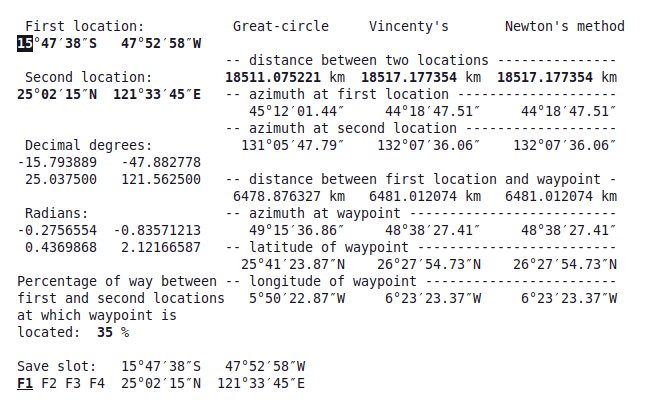
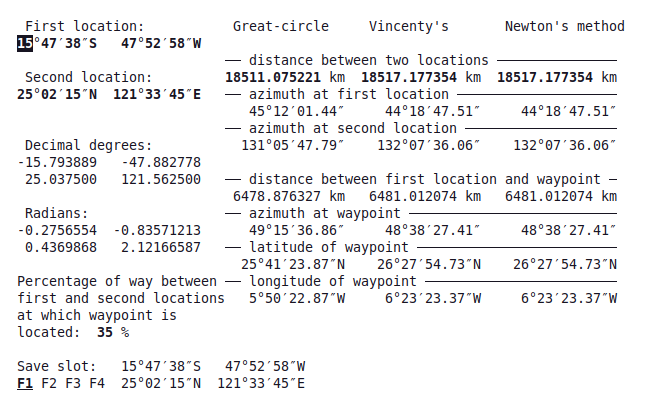
Changed line characters

diff --git a/main.c b/main.c
@@ -121,14 +121,14 @@ void print_text(void) {
 	mvwprintw(text, 1, 46, "Vincenty's");
 	mvwprintw(text, 1, 63, "Newton's method");
 
-	mvwprintw(text, 3, 28, "-- distance between two locations ---------------");
-	mvwprintw(text, 5, 28, "-- azimuth at first location --------------------");
-	mvwprintw(text, 7, 28, "-- azimuth at second location -------------------");
+	mvwprintw(text, 3, 28, "── distance between two locations ───────────────");
+	mvwprintw(text, 5, 28, "── azimuth at first location ────────────────────");
+	mvwprintw(text, 7, 28, "── azimuth at second location ───────────────────");
 
-	mvwprintw(text, 10, 28, "-- distance between first location and waypoint -");
-	mvwprintw(text, 12, 28, "-- azimuth at waypoint --------------------------");
-	mvwprintw(text, 14, 28, "-- latitude of waypoint -------------------------");
-	mvwprintw(text, 16, 28, "-- longitude of waypoint ------------------------");
+	mvwprintw(text, 10, 28, "── distance between first location and waypoint ─");
+	mvwprintw(text, 12, 28, "── azimuth at waypoint ──────────────────────────");
+	mvwprintw(text, 14, 28, "── latitude of waypoint ─────────────────────────");
+	mvwprintw(text, 16, 28, "── longitude of waypoint ────────────────────────");
 
 
 }
